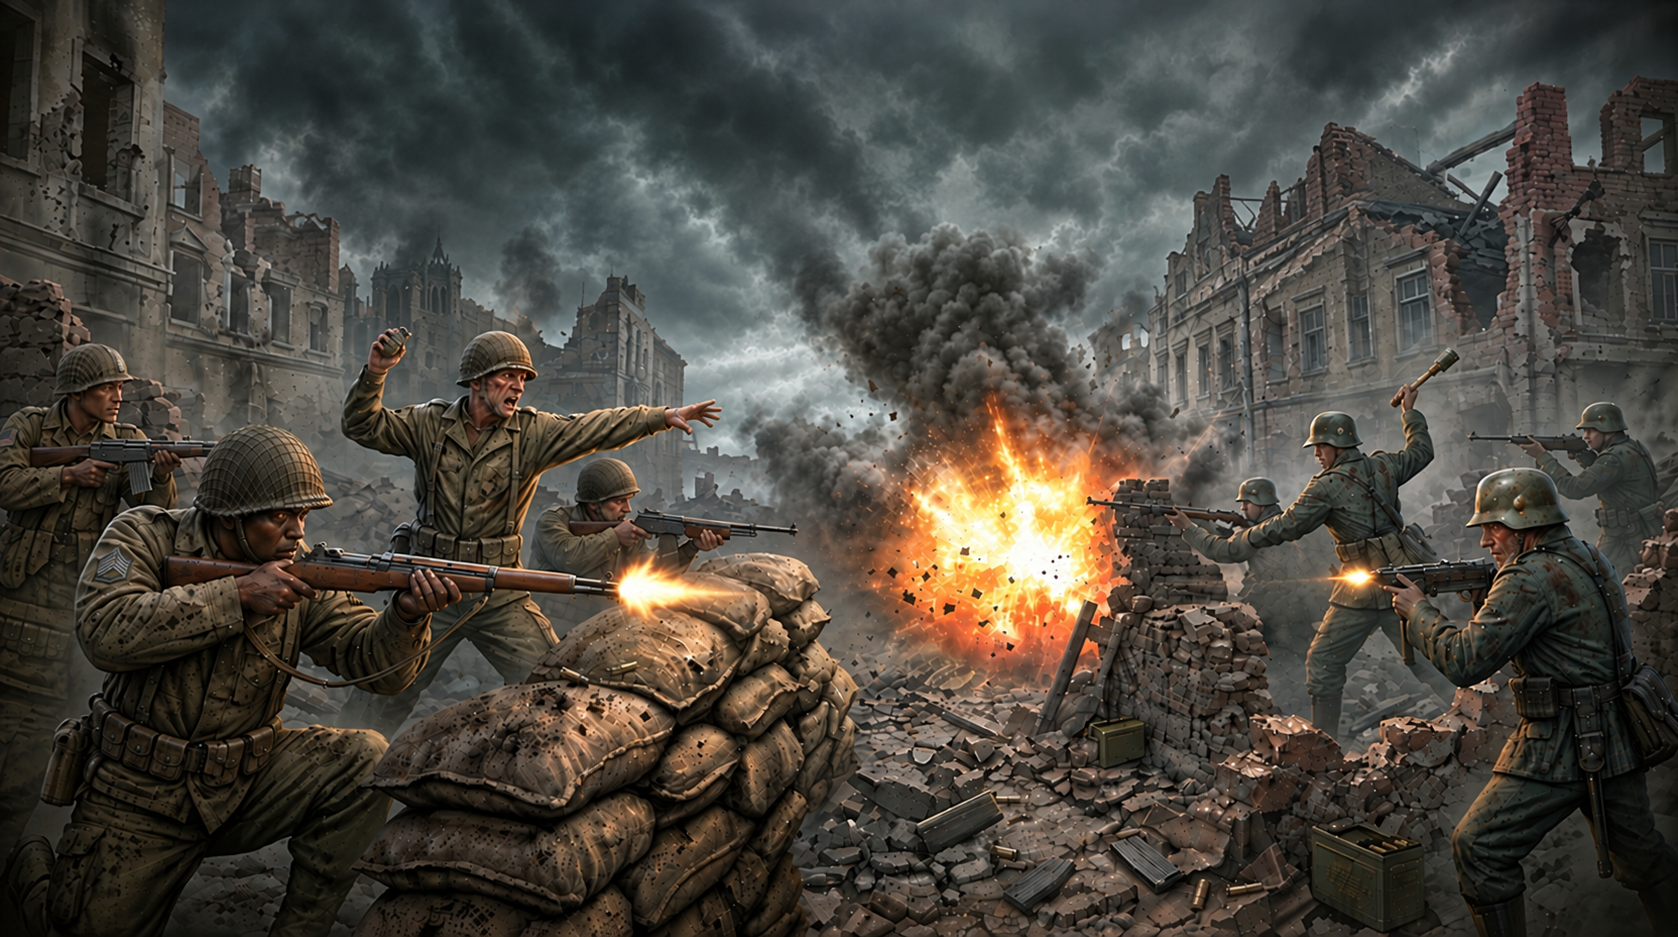
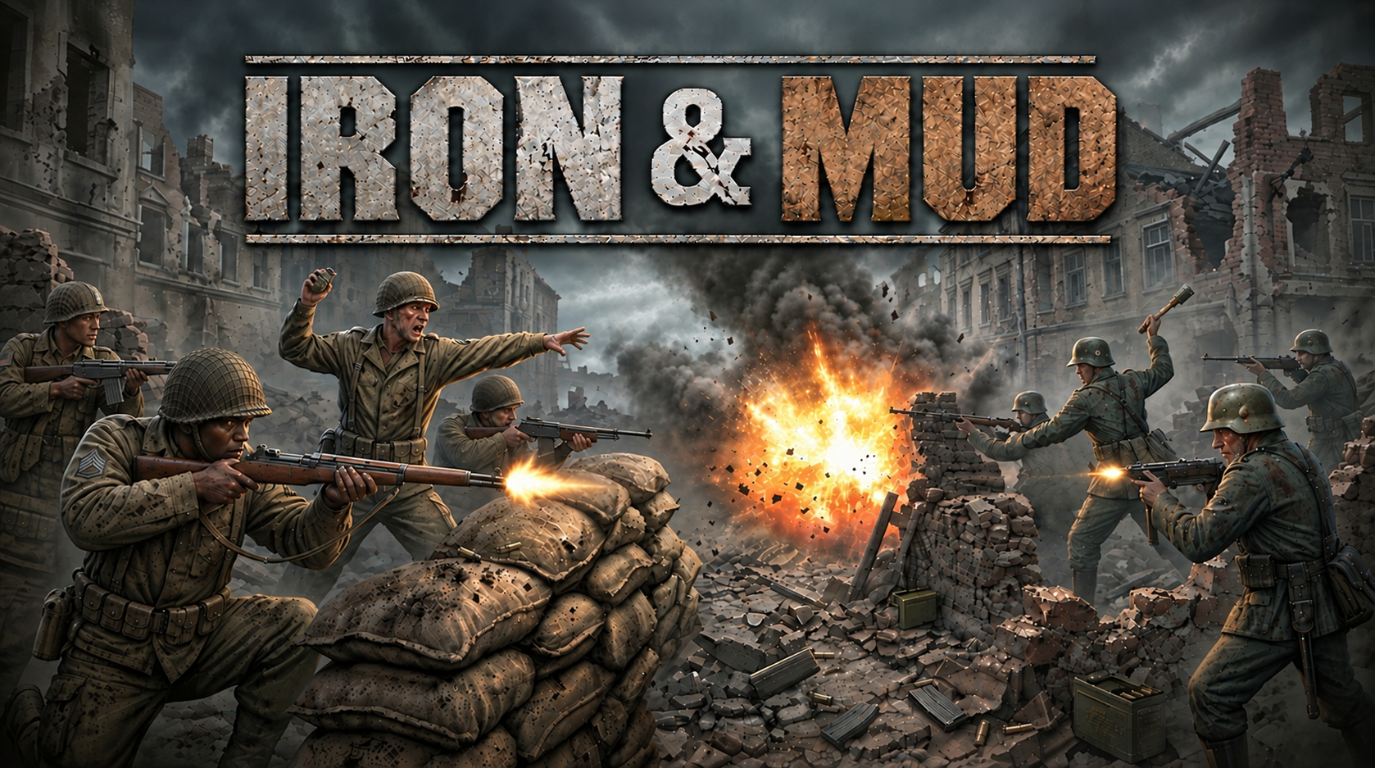
Restore titled landscape artwork on desktop and laptop
Keep title-free portrait artwork up to 1024px and reserve desktop hero space to prevent title overlap.

diff --git a/index.html b/index.html
@@ -8,7 +8,7 @@
       name="description"
       content="Iron & Mud is a real-time WW2 multiplayer squad tactics game with click-to-move controls. Command your soldiers and fight alongside your team."
     >
-    <link rel="preload" as="image" href="lobby_background.png" media="(min-width: 1025px)">
+    <link rel="preload" as="image" href="lobby_background.png?v=titled" media="(min-width: 1025px)">
     <link rel="preload" as="image" href="lobby_background_portrait.jpg" media="(max-width: 1024px)">
     <meta property="og:type" content="website">
     <meta property="og:title" content="Iron & Mud">
@@ -21,7 +21,7 @@
     <title>Iron &amp; Mud — Real-Time WW2 Multiplayer</title>
     <link rel="canonical" href="https://playironandmud.com/">
     <link rel="icon" href="favicon.ico" type="image/x-icon">
-    <link rel="stylesheet" href="styles.css?v=portrait-background">
+    <link rel="stylesheet" href="styles.css?v=titled-desktop">
   </head>
   <body>
     <a class="skip-link" href="#main">Skip to content</a>

diff --git a/styles.css b/styles.css
@@ -8,7 +8,7 @@
   --paper: #111615;
   --panel: #19201e;
   --line: rgb(196 202 199 / 18%);
-  --battle-art: url("lobby_background.png");
+  --battle-art: url("lobby_background.png?v=titled");
   font-family: Arial, Helvetica, sans-serif;
   font-synthesis: none;
   text-rendering: optimizeLegibility;
@@ -97,12 +97,12 @@ a:focus-visible {
 .hero {
   position: relative;
   display: flex;
-  min-height: min(850px, 100svh);
+  min-height: max(48rem, min(850px, 100svh));
   align-items: flex-end;
   overflow: hidden;
   background-color: #29312e;
   background-image: var(--battle-art);
-  background-position: center 43%;
+  background-position: center top;
   background-size: cover;
 }
 
@@ -118,7 +118,7 @@ a:focus-visible {
 .hero__content {
   position: relative;
   width: min(1100px, 100%);
-  padding: 8rem clamp(1.25rem, 9vw, 9rem) 4rem;
+  padding: max(18rem, 22vw) clamp(1.25rem, 9vw, 9rem) 4rem;
 }
 
 .eyebrow {
